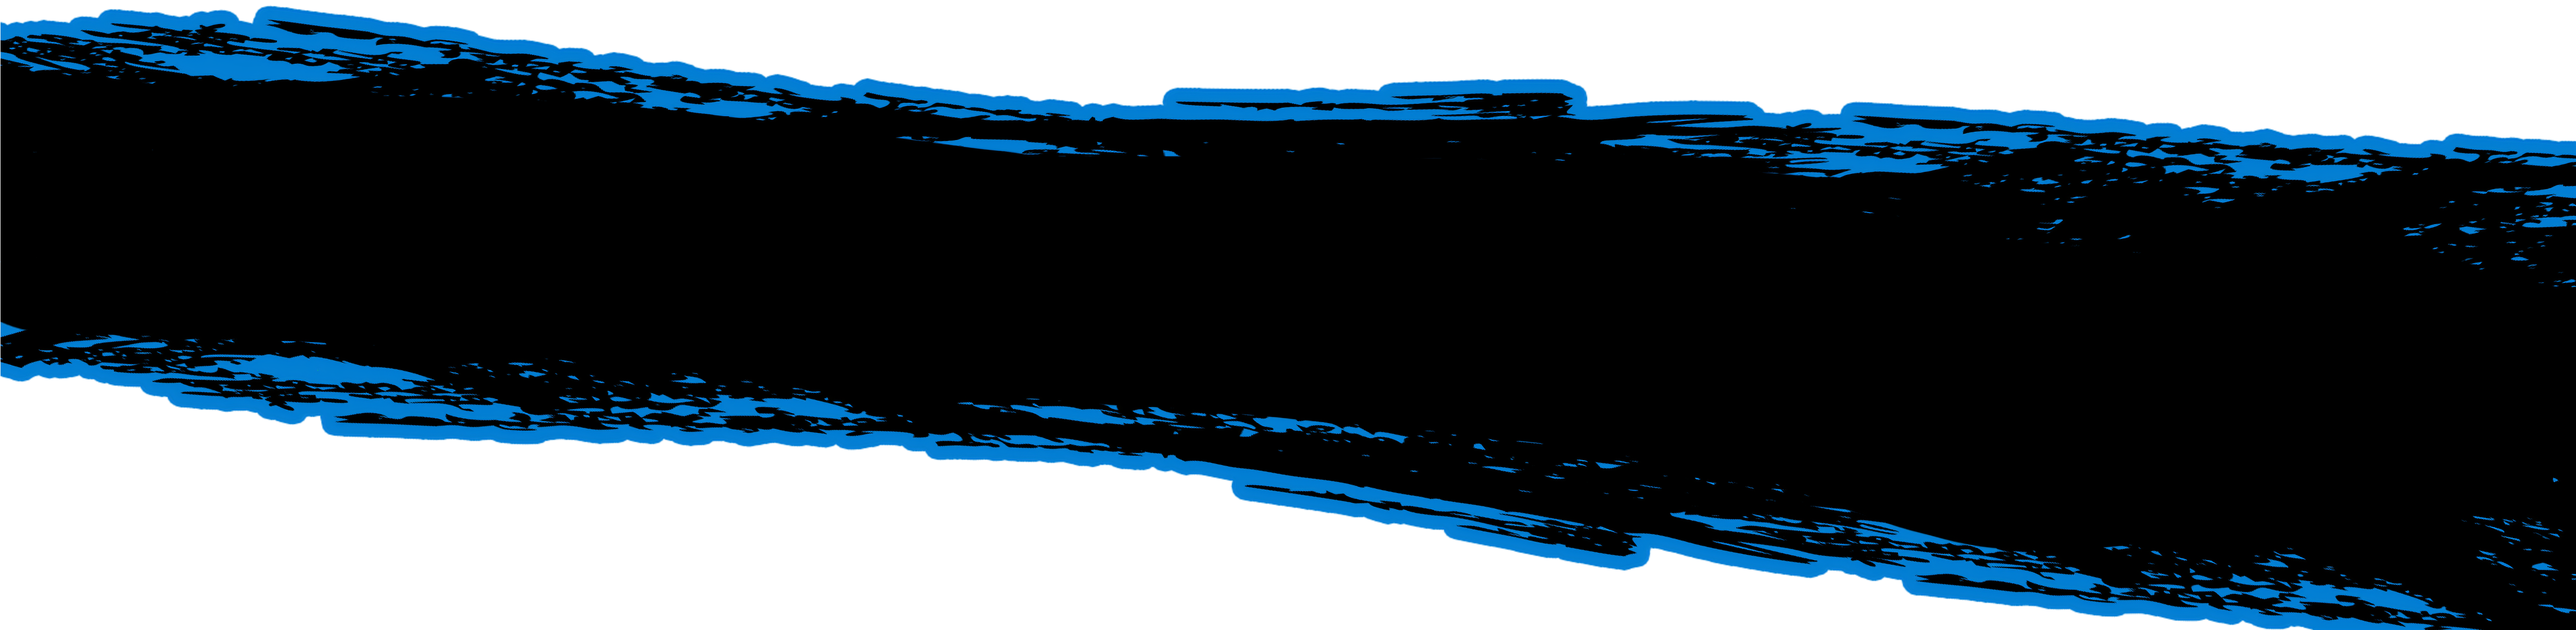
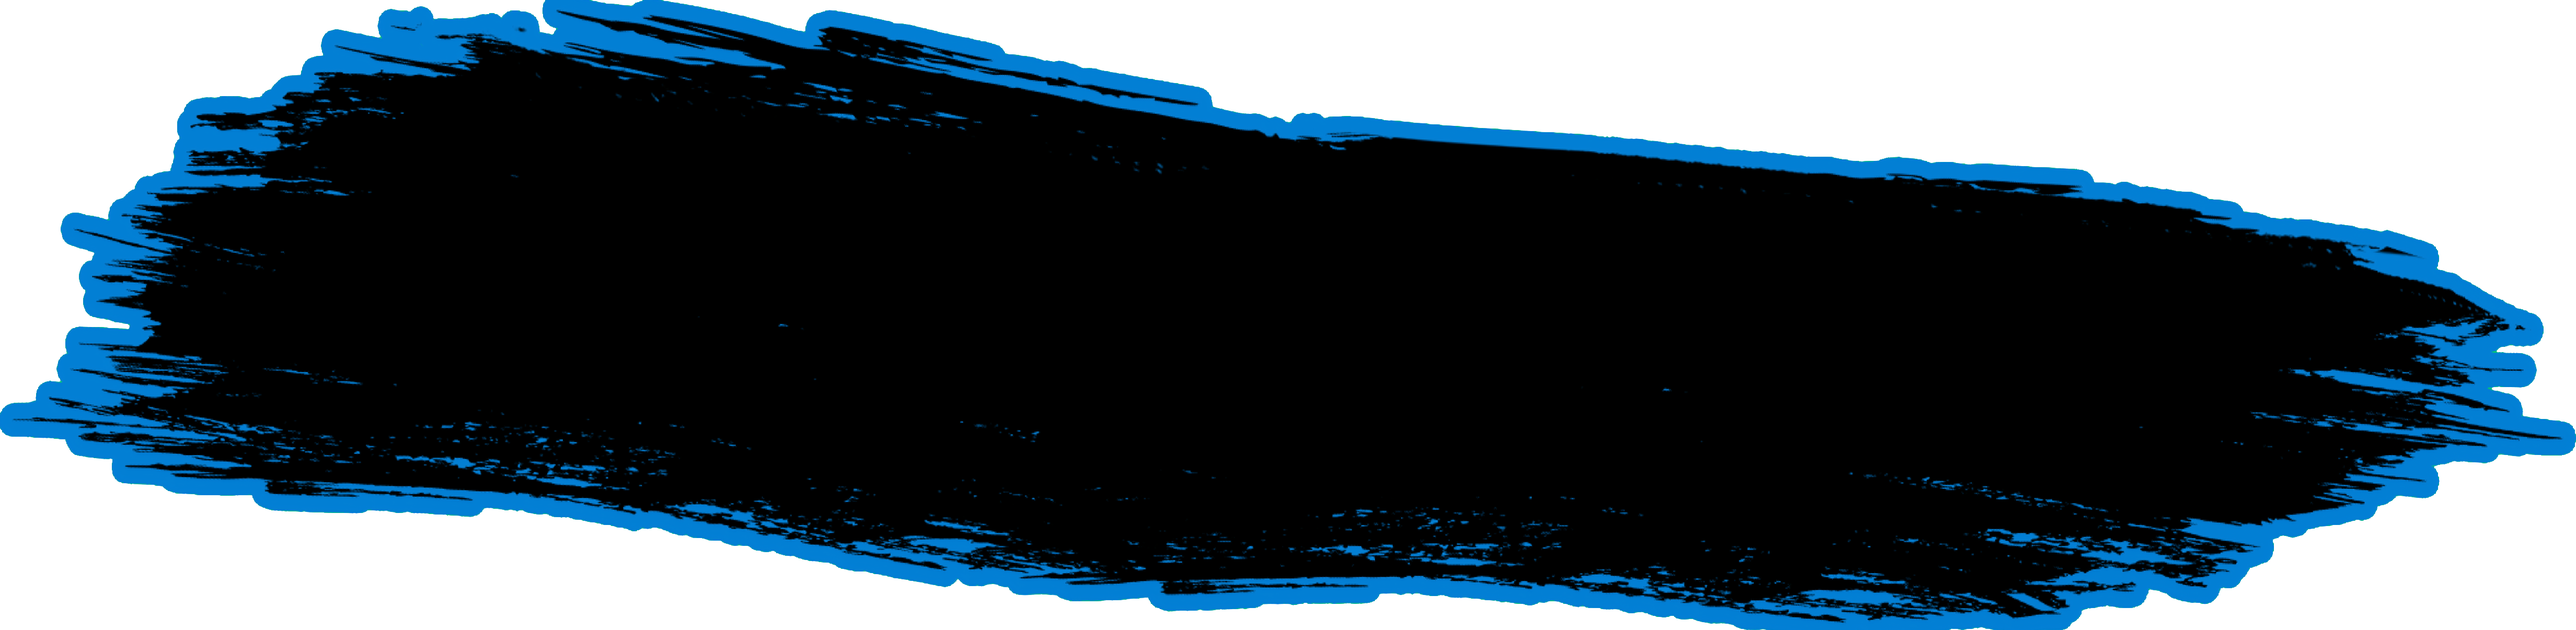
cambios esteticos

diff --git a/src/pages/HomeVite/HomeVite.jsx b/src/pages/HomeVite/HomeVite.jsx
@@ -4,7 +4,7 @@ import headCutterLogo from '../../assets/LOGO.png'
 import headCutterLogo3D from '../../assets/logo3d.png'
 import fondoLogo from '../../assets/fondotexto4k.png'
 
-import { CiInstagram } from "react-icons/ci";
+import { RiInstagramFill } from "react-icons/ri";
 import { FaTwitter } from "react-icons/fa6";
 import { FaYoutube } from "react-icons/fa6";
 import { FaTiktok } from "react-icons/fa6";
@@ -82,7 +82,7 @@ const HomeVite = () => {
           </div>
 
           <div className="socialMediaCont">
-            <CiInstagram onClick={() => window.open("https://www.instagram.com/devpetrichor/", "_blank")} />
+            <RiInstagramFill onClick={() => window.open("https://www.instagram.com/devpetrichor/", "_blank")} />
             <FaTwitter onClick={() => window.open("https://x.com/DevPetrichor", "_blank")} />
             <FaYoutube onClick={() => window.open("https://www.youtube.com/channel/UCg48jY_k6jbHLrDU15xPoVw", "_blank")} />
             <FaTiktok onClick={() => window.open("https://www.tiktok.com/@devpetrichor", "_blank")} />

diff --git a/src/App.css b/src/App.css
@@ -28,7 +28,7 @@
 
 
 .logo:hover {
-  transform: scale(1.1) !important;
+  transform: scale(1.02) !important;
 }
 
 
@@ -48,7 +48,7 @@
 
 body {
   font-family: 'CarvedRock', sans-serif !important;
-  background-image: url('./assets/fondocasi4k.png') !important;
+  background-image: url('./assets/fondocasi4k.jpg') !important;
   background-size: cover !important;
   background-position: center !important;
   background-repeat: no-repeat !important;
@@ -67,9 +67,10 @@ body {
   align-items: center !important;
   gap: 0.3rem !important;
   font-size: 1.5rem !important;
-  background-color: rgba(0, 0, 0, 0.429);
-  padding: 0.5rem;
-  border-radius: 5px;
+  background-color: rgb(0, 0, 0);
+  padding: 1.2rem;
+  -webkit-box-shadow: -12px 8px 0px 2px #017cd2;
+  box-shadow: -12px 8px 0px 2px #017cd2;
 }
 
 .link {
